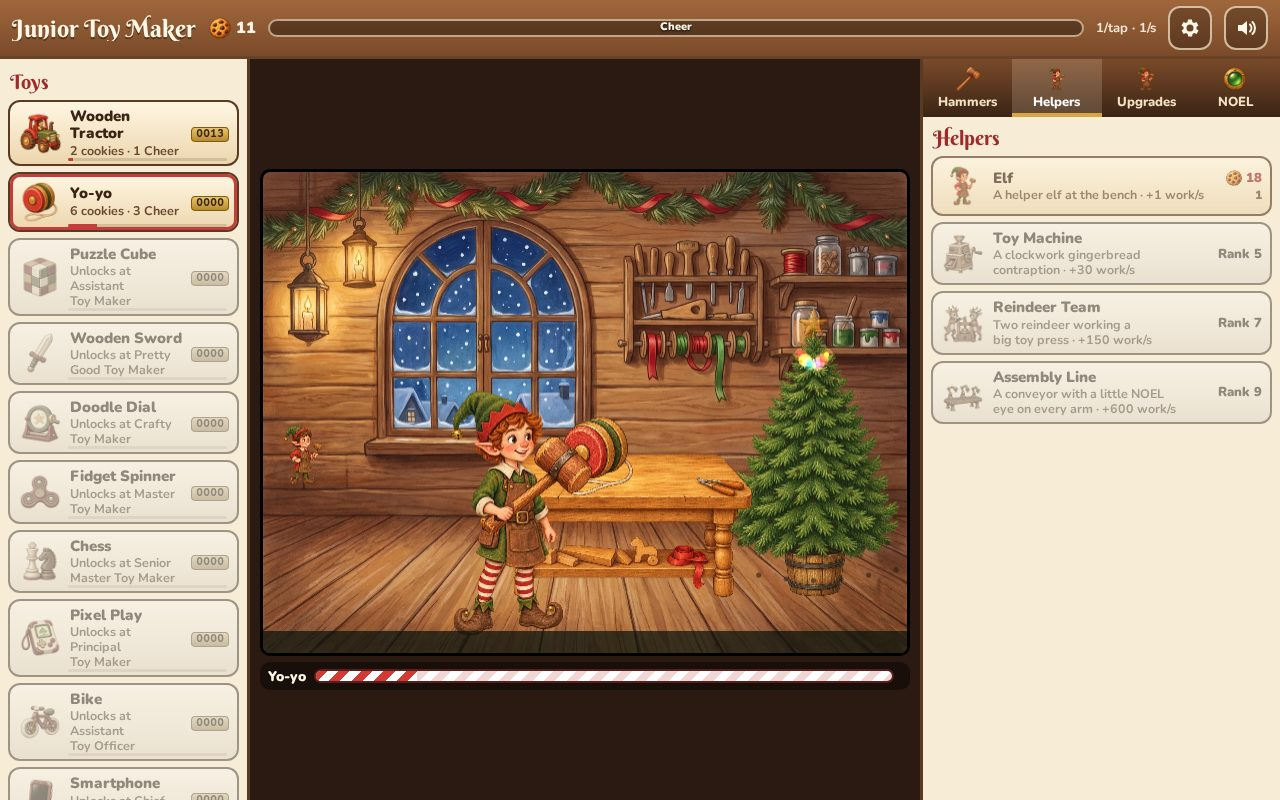
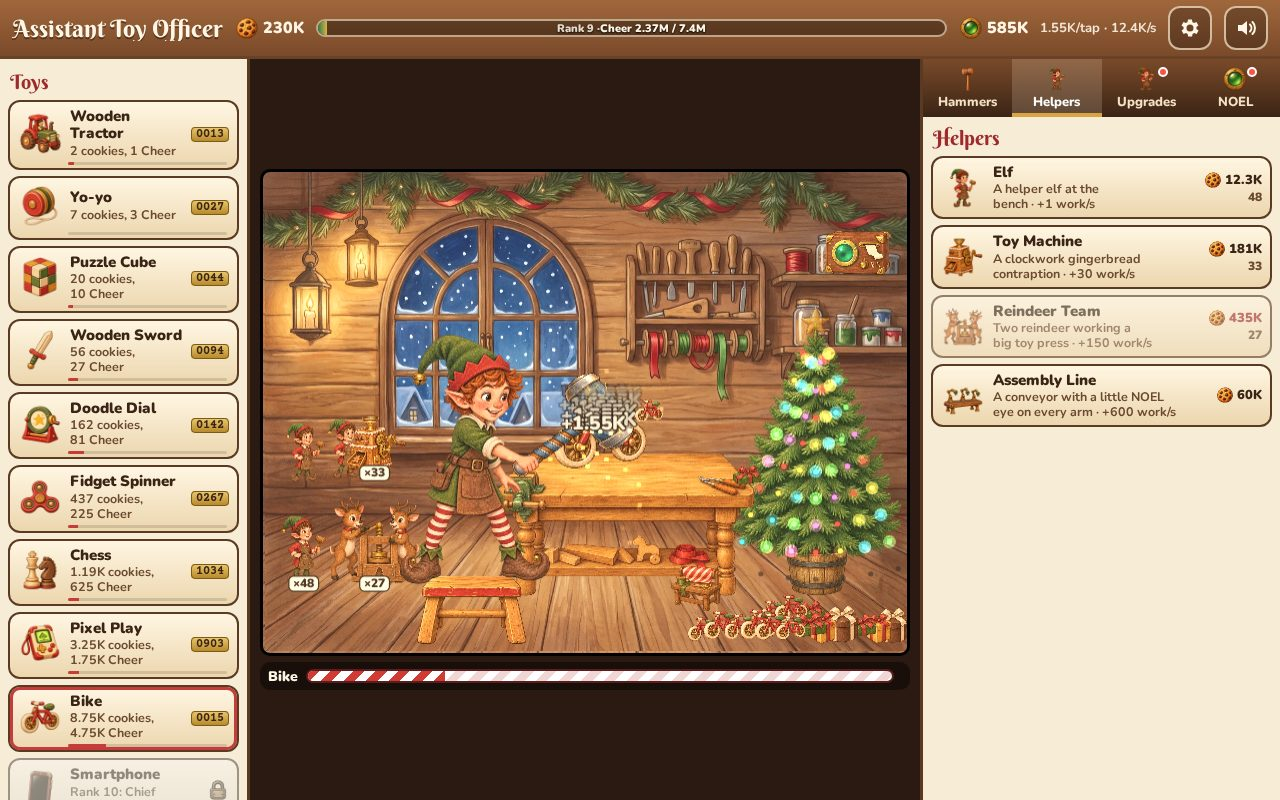
README: the fixes and the stats card; new Act 1 screenshot; keep the space in the rank label

diff --git a/game/src/ui.js b/game/src/ui.js
@@ -97,8 +97,8 @@ export function update(S, extra = {}) {
   setIf('ins', $('#statInsight span'), 'text', fmt(S.insight));
   const tapv = R.tapValue(S); setIf('rate', $('#statRate'), 'text', `${fmt(tapv)}/tap · ${fmt(RR.crew + RR.auto)}/s`);
   const thr = THRESHOLDS[act]; let frac, label;
-  if (S.rank < 10) { frac = (S.prog - thr[S.rank - 1]) / (thr[S.rank] - thr[S.rank - 1]); label = `<span class="rank-no">Rank ${S.rank} · </span><span class="pl-word">${T.progress}&nbsp;</span>${fmt(S.prog)}&nbsp;/&nbsp;${fmt(thr[S.rank])}`; }
-  else { frac = 1; label = `<span class="rank-no">Rank 10 · </span>${fmt(S.prog)}<span class="pl-word">&nbsp;${T.progress}</span>`; }
+  if (S.rank < 10) { frac = (S.prog - thr[S.rank - 1]) / (thr[S.rank] - thr[S.rank - 1]); label = `<span class="rank-no">Rank ${S.rank} ·&nbsp;</span><span class="pl-word">${T.progress}&nbsp;</span>${fmt(S.prog)}&nbsp;/&nbsp;${fmt(thr[S.rank])}`; }
+  else { frac = 1; label = `<span class="rank-no">Rank 10 ·&nbsp;</span>${fmt(S.prog)}<span class="pl-word">&nbsp;${T.progress}</span>`; }
   setIf('progw', $('#progFill'), 'width', Math.max(0, Math.min(100, frac * 100)).toFixed(1) + '%'); setIf('progl', $('#progLabel'), 'html', label);
   // job strip
   setIf('jobname', $('#jobName'), 'text', T.jobs[S.job]);

diff --git a/README.md b/README.md
@@ -47,7 +47,8 @@ the wheel to win it back. Six endings are waiting, one of them a secret.
 - Found a bug? Pause and pick "Report a bug", or press Ctrl+Shift+F (you'll need a GitHub account).
 
 There's no way to lose. The game saves itself in one of three slots (Load, from the title), along
-with every ending you find. A whole run takes about an hour and three quarters of play.
+with every ending you find. The Endings screen also shows "This run": your time, the locks you took and
+cleared, and every wish and First Contact answer you chose. A whole run takes about an hour and three quarters of play.
 
 ![On a phone](media/screenshots/phone.jpg)
 
@@ -81,6 +82,17 @@ Then, to build it:
 > /gamegen:gamegen --continue --out xmas-everywhere --budget 30 give each act a few early-ending lines by how far you got. --art-sheet --feedback --publish --no-confirm
 
 which gave each of Acts 2–4 four early-ending lines, by how far you got.
+
+After it went online, three player reports (filed from the game's own "Report a bug" button) were fixed with:
+
+> /gamegen:gamegen --out xmas-everywhere --fix all --publish --no-confirm
+
+which calmed the flashing Helpers tab (#1), made bug-report pictures show the whole screen (#2), and gave
+Act 1 Chief Toy Officer's swing, step stool and toy pile, with a Wrapping Station in the line (#3). Then:
+
+> /gamegen:gamegen --out xmas-everywhere --change add a stats card to the Endings screen: time played, locks taken and cleared, and every wish and First Contact answer you chose --publish --no-confirm
+
+which added "This run" to the Endings screen.
 
 gamegen designed the game, had review agents polish the design, made the art, animation, music and
 sound with these plugins, built it, and play-tested it:
@@ -129,4 +141,6 @@ then open http://localhost:8000.
 An idea by Rich Conlan, from Xmas Clicker (2017) and Sean's elves, built on Chief Toy Officer.
 
 Fonts: Berkshire Swash, Nunito, Courier Prime and Caveat, all under the SIL Open Font License
-(bundled in `game/fonts/` with their licenses).
+(bundled in `game/fonts/` with their licenses). Bug-report pictures use
+[html2canvas](https://html2canvas.hertzen.com) (MIT, bundled in `game/vendor/`). Act 1's swing, hammers and step
+stool come from Chief Toy Officer.
